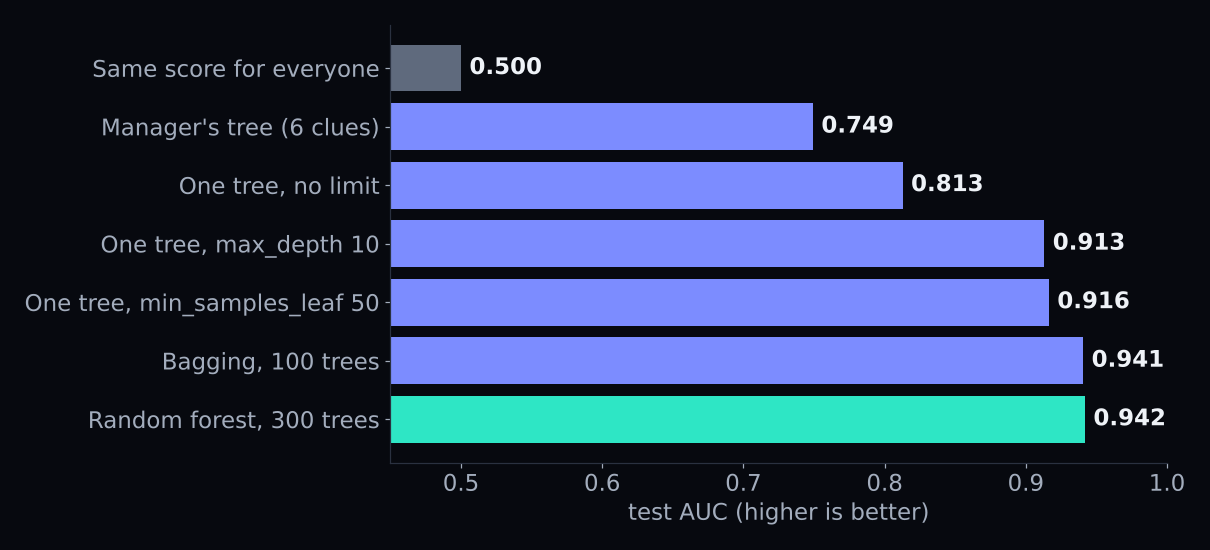
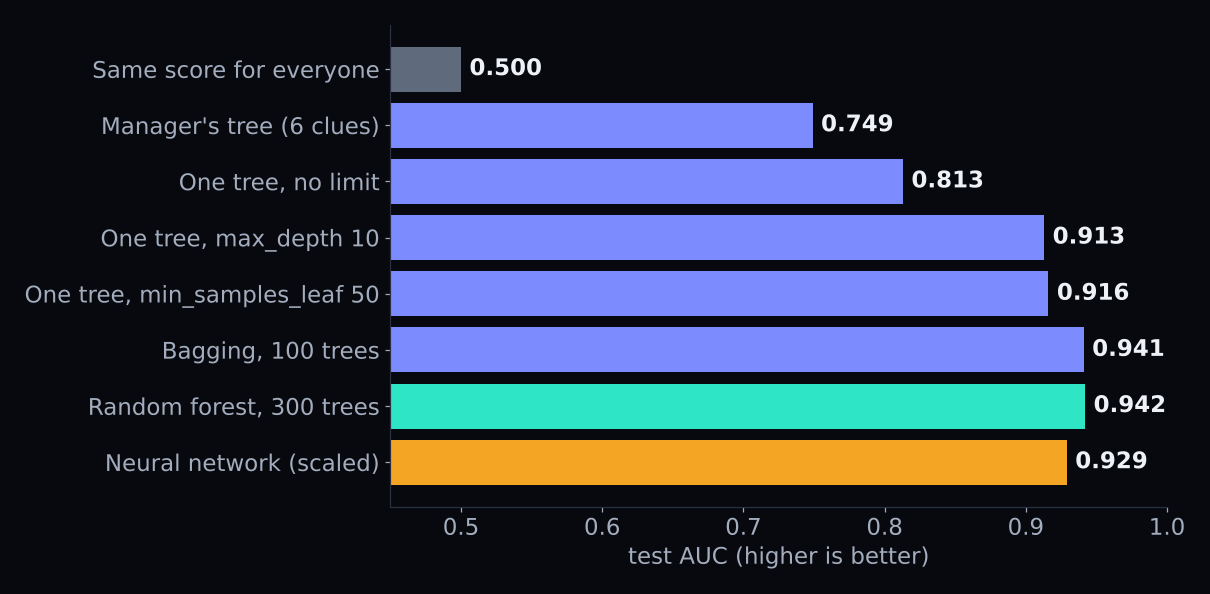
Session 7: the bridge to neural networks
- Notebook Step 8: a tree asks about one clue, a neuron about a weighted mix;
  the same two clues (lead time, price) drawn three ways: tree rectangles,
  forest patchwork, neural-network curves; what carries over (overfitting,
  brakes, dropout as a crowd, permutation importance on any model); head to
  head on the hotel table: MLP 0.863 unscaled, 0.929 with the full prep,
  forest 0.942 with none (cf. Grinsztajn et al., NeurIPS 2022).
- Three new slides, leaderboard chart with the network, four takeaways.
- Session page: new objective, agenda and resource text for the bridge.
Executed end to end (scikit-learn 1.9.1, pandas 3.0.5); npm run check passes.

Claude-Session: https://claude.ai/code/session_01B2K9PLC9mPhqVoyGoBH4rq

diff --git a/public/session-07/slides.html b/public/session-07/slides.html
@@ -72,12 +72,13 @@
 <section class="slide" data-notes="Tonight's map. Break around 6:05. The notebook follows the same steps; Your Turn at the end includes getting a random forest onto the competition leaderboard tonight.">
   <div class="kicker">Tonight</div>
   <h2>One tree, then <span class="grad">three hundred</span></h2>
-  <div class="timeline" style="grid-template-columns: repeat(6, 1fr)">
+  <div class="timeline" style="grid-template-columns: repeat(7, 1fr)">
     <div><i>5:00</i><b>The data &amp; the leaks</b>Which columns are cheating?</div>
     <div><i>5:20</i><b>How a tree asks</b>20 Questions, Gini</div>
     <div><i>5:40</i><b>Too many questions</b>Overfitting, two brakes</div>
     <div><i>6:15</i><b>The forest</b>Wisdom of the crowd</div>
     <div><i>6:45</i><b>Which clues matter</b>Two answers that disagree</div>
+    <div><i>7:00</i><b>Neural networks</b>The bridge</div>
     <div><i>7:10</i><b>Your turn</b>A forest on Kaggle tonight</div>
   </div>
 </section>
@@ -332,10 +333,42 @@
   <p class="sub">"Guests who make special requests cancel less" is a <b class="t">pattern</b>.<br>It does <b>not</b> mean that asking every guest for a request would cut cancellations.</p>
 </section>
 
-<section class="slide" data-notes="Test AUC on the same 6,000 bookings: baseline 0.500; manager's tree 0.749; unlimited tree 0.813; depth 10: 0.913; min_samples_leaf 50: 0.916; bagging 0.941; random forest 0.942.">
+<section class="slide" data-notes="Notebook Step 8. A tree's split looks at one column with a hard yes/no. A neuron computes a weighted sum of all inputs and passes it through a soft activation, so it answers 'how much yes'. Layers stack these, so later neurons use earlier neurons' answers as clues: the network invents its own features. Trained by gradient descent: all weights nudged together, not one greedy question at a time.">
+  <div class="kicker">Step 8 · the bridge to neural networks</div>
+  <h2>A tree asks about <span class="t">one clue</span>.<br>A neuron asks about <span class="p">a mix</span>.</h2>
+  <div class="row">
+    <div class="card" style="min-width:320px"><div class="label">A tree's question</div><div class="title">"Is lead time more than 14 days?"</div><p>One column. A hard <b>yes / no</b>. Chosen greedily, one box at a time.</p></div>
+    <div class="card" style="min-width:320px; border-color: var(--peri)"><div class="label">A neuron's question</div><div class="title">"Is 0.8 × lead time − 0.3 × price + 2 × requests more than 5?"</div><p>A weighted mix. A <b>soft</b> answer from 0 to 1. All weights learned together.</p></div>
+  </div>
+  <p class="sub">Stack layers of neurons and the network <b class="p">invents its own clues</b>.</p>
+</section>
+
+<section class="slide" data-notes="Each panel: every possible booking with only lead time and price, colored by predicted chance of cancellation (blue stays, red cancels). Tree: axis-aligned rectangles. Forest: 300 sets of rectangles averaged into a finer patchwork. Neural network: smooth curves, because each neuron cuts along a mix of the two clues. Two-clue test AUCs: tree 0.708, forest 0.773, network 0.705.">
+  <div class="kicker">Same two clues · three ways to carve the map</div>
+  <h2><span class="t">Rectangles</span>, a <span class="t">patchwork</span>, and <span class="p">curves</span></h2>
+  <img class="chart" src="img/map.png" alt="Three maps of lead time against price colored by predicted cancellation: the tree shows rectangles, the forest a fine patchwork, the neural network smooth curves">
+  <p class="sub"><b style="color:#6f8fe8">Blue</b> = stays · <b class="co">red</b> = cancels</p>
+</section>
+
+<section class="slide" data-notes="Same lessons carry over: big networks memorize; brakes are early stopping and weight decay; dropout randomly switches off neurons during training, and Srivastava et al. (JMLR 2014) describe it as approximately averaging an exponential number of thinned networks — a crowd inside one network. Head to head on the hotel table: network without scaling 0.863, with scaling + one-hot 0.929, forest 0.942 with no prep. Grinsztajn, Oyallon & Varoquaux (NeurIPS 2022): tree ensembles still usually beat deep learning on typical tabular data. Networks win on images, sound, text (Session 12). Next week: TabPFN.">
+  <div class="kicker">What carries over · and who wins on tables</div>
+  <h2>Same lessons. <span class="t">Forests still win on tables.</span></h2>
+  <div class="row">
+    <div class="card" style="min-width:250px"><div class="label">Overfitting</div><div class="title">Big networks memorize too</div><p>Brakes: early stopping, weight decay.</p></div>
+    <div class="card" style="min-width:250px"><div class="label">The crowd</div><div class="title">Dropout</div><p>Switch off random neurons while training: many "thinned" networks averaged.</p></div>
+    <div class="card" style="min-width:250px"><div class="label">Explaining</div><div class="title">Permutation works on any model</div><p>Shuffle a column, watch the score.</p></div>
+  </div>
+  <div class="row">
+    <div class="card" style="min-width:230px"><div class="label">Network, no scaling</div><div class="num" style="background:none;color:var(--coral)">0.863</div></div>
+    <div class="card" style="min-width:230px"><div class="label">Network, scaled + one-hot</div><div class="num" style="background:none;color:var(--amber)">0.929</div></div>
+    <div class="card" style="min-width:230px; border-color: var(--teal)"><div class="label">Forest, no prep</div><div class="num">0.942</div></div>
+  </div>
+</section>
+
+<section class="slide" data-notes="Test AUC on the same 6,000 bookings: baseline 0.500; manager's tree 0.749; unlimited tree 0.813; depth 10: 0.913; min_samples_leaf 50: 0.916; bagging 0.941; random forest 0.942; neural network (scaled + one-hot) 0.929.">
   <div class="kicker">Tonight's leaderboard · test AUC</div>
   <h2>From a coin flip to a <span class="t">forest</span></h2>
-  <img class="chart" src="img/leaderboard.png" alt="Leaderboard: same score 0.500, manager's tree 0.749, unlimited tree 0.813, depth 10 tree 0.913, min samples leaf 50 tree 0.916, bagging 0.941, random forest 0.942">
+  <img class="chart" src="img/leaderboard.png" alt="Leaderboard: same score 0.500, manager's tree 0.749, unlimited tree 0.813, depth 10 tree 0.913, min samples leaf 50 tree 0.916, bagging 0.941, random forest 0.942, neural network 0.929">
 </section>
 
 <section class="slide" data-notes="When to use which. Next week: gradient boosting — trees that learn from each other's mistakes instead of voting.">
@@ -350,7 +383,7 @@
 
 <section class="slide" data-notes="About 20 minutes. Q1 (leak test) and Q3 (competition) for everyone; Q2 for those who finish; Q4 optional. Q1 answer: AUC barely moves (0.942 → 0.943), yet guests moved to a different room cancel only 6% vs 42% — because rooms are assigned at check-in, i.e. only for guests who showed up. Still a leak: drop it for timing, not for the score.">
   <div class="kicker">Your turn · in the notebook</div>
-  <h2>Four questions, Step 8</h2>
+  <h2>Four questions, Step 9</h2>
   <ul class="list">
     <li><b class="t">Leak test.</b> Put <b>assigned_room_type</b> back. How much does AUC change? Would you know it at booking time?</li>
     <li><b class="p">Two brakes at once.</b> max_depth + min_samples_leaf. Can a single tree beat 0.916?</li>
@@ -372,7 +405,7 @@ prep = ColumnTransformer([
 model = Pipeline([(<span class="s">'prep'</span>, prep),
                   (<span class="s">'clf'</span>, <span class="f">RandomForestClassifier</span>(n_estimators=300,
                            min_samples_leaf=5, n_jobs=-1))])</pre>
-  <p class="sub">Logistic baseline <b>≈ 0.89</b> → random forest <b class="t">≈ 0.95</b> (5-fold, all 83,573 bookings)<br><span style="color:var(--muted)">The full cell, with imports: notebook Step 8, Q3</span></p>
+  <p class="sub">Logistic baseline <b>≈ 0.89</b> → random forest <b class="t">≈ 0.95</b> (5-fold, all 83,573 bookings)<br><span style="color:var(--muted)">The full cell, with imports: notebook Step 9, Q3</span></p>
 </section>
 
 <section class="slide" data-notes="Dates match the deadlines table. Milestone 1 is due tonight. Leaderboard closes Mon Nov 9 at 4:30 PM — upload the same predictions file on Canvas; the memo that night. HW3 Nov 16.">
@@ -388,12 +421,13 @@ model = Pipeline([(<span class="s">'prep'</span>, prep),
 </section>
 
 <section class="slide" data-notes="Three takeaways, then the close. Next week: gradient boosting, and the competition reveal.">
-  <div class="kicker">Three things to remember</div>
-  <h2>Tonight in three lines</h2>
+  <div class="kicker">Four things to remember</div>
+  <h2>Tonight in four lines</h2>
   <ul class="list">
     <li>A tree is a <b class="t">flowchart of questions learned from data</b>. Easy to read, easy to overfit: use a brake.</li>
     <li>A forest is a <b class="p">crowd of different trees</b>. Different mistakes cancel; more trees never hurt.</li>
     <li><b class="co">Report permutation importance</b>, and show the shape with partial dependence. Describe, don't claim causes.</li>
+    <li>A neuron asks about <b class="am">a mix of clues</b>. Same lessons, but on tables, forests still usually win.</li>
   </ul>
   <p class="sub">Next Monday: <b class="t">gradient boosting</b>, trees that learn from each other's mistakes.</p>
 </section>
